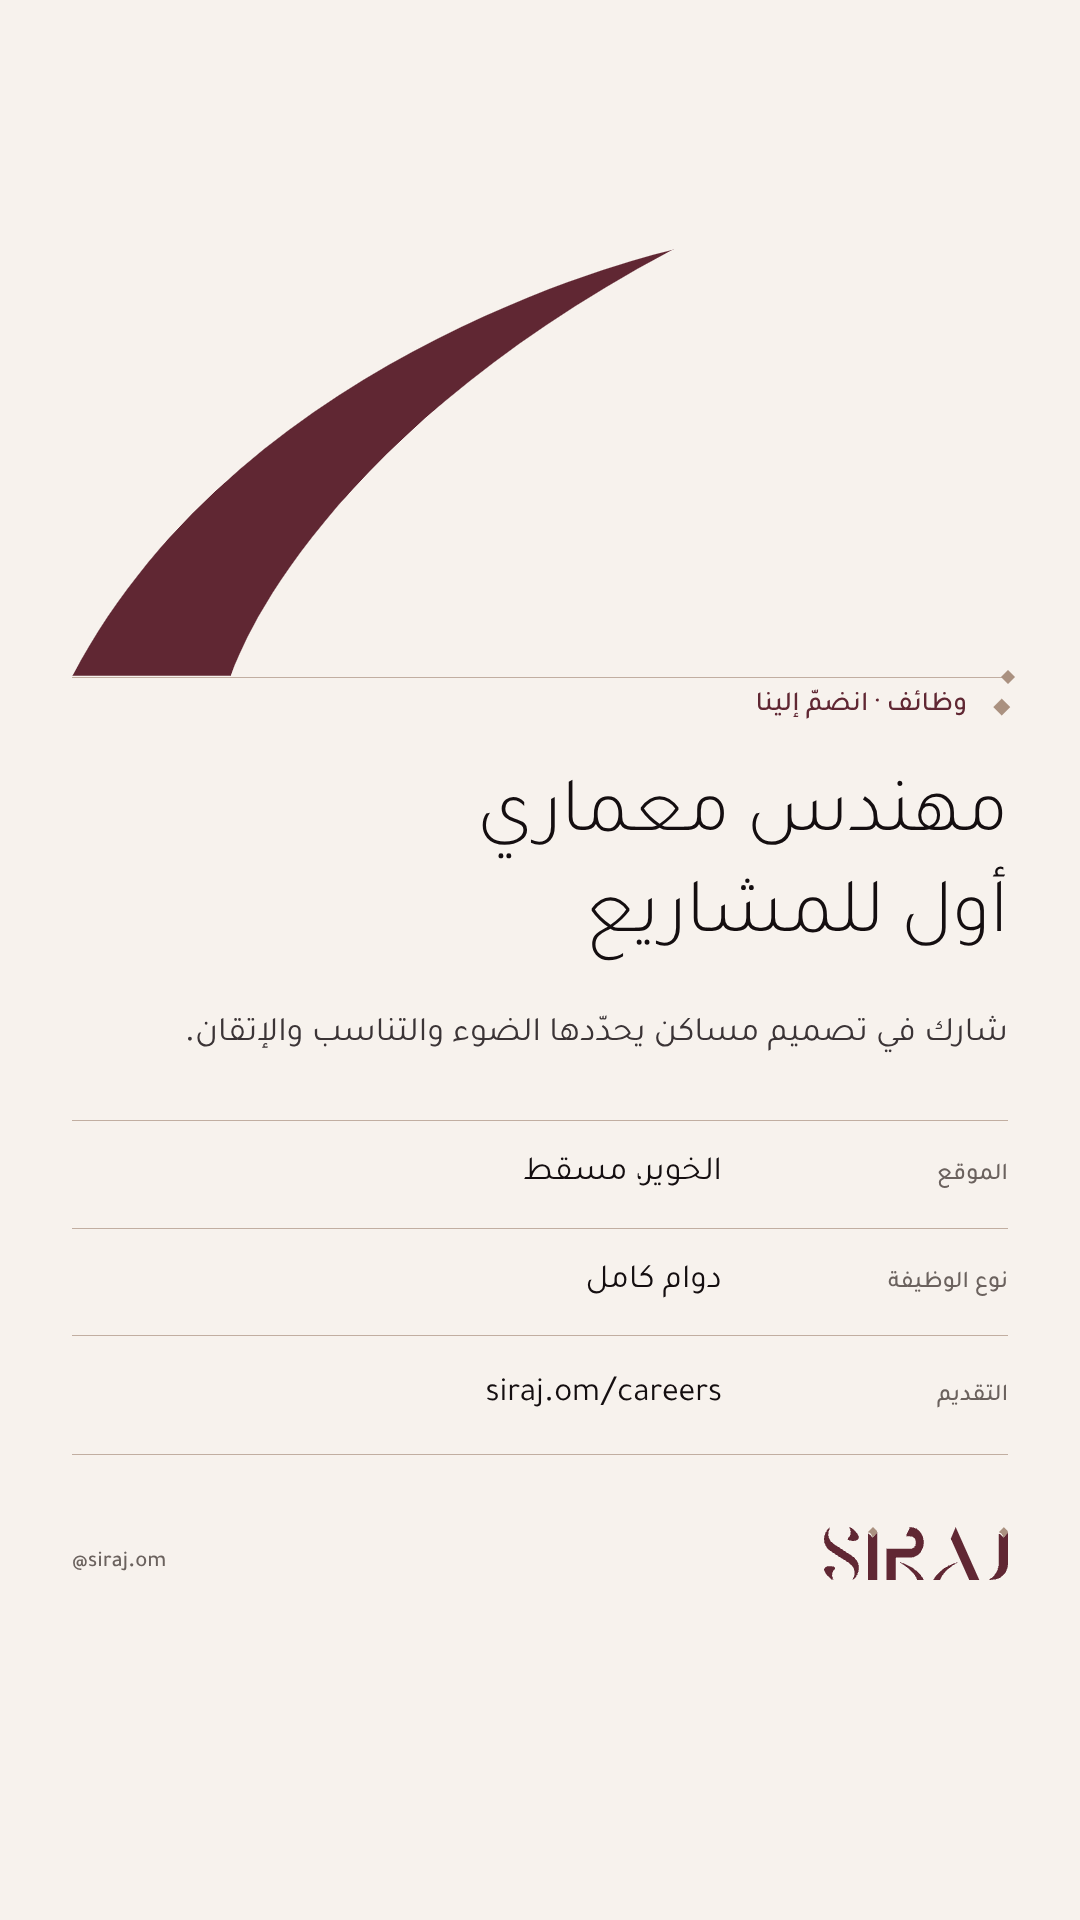
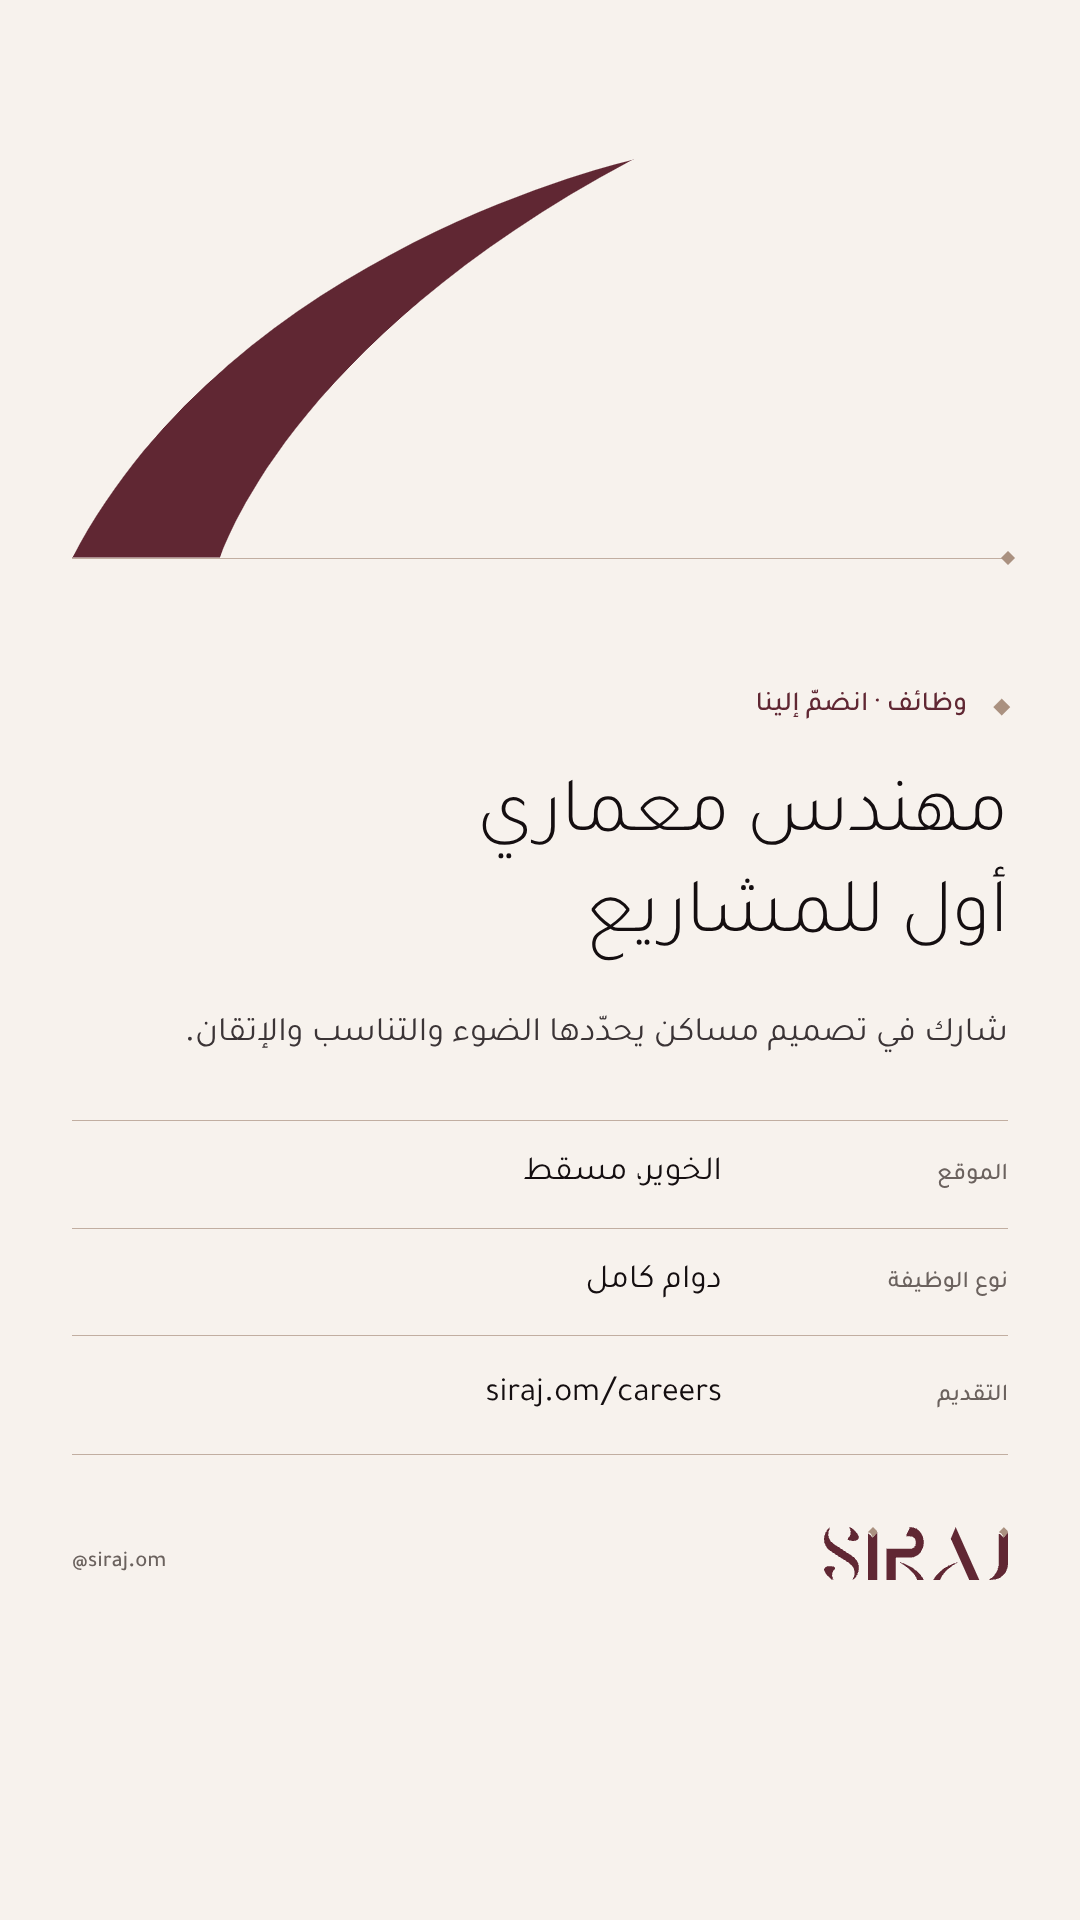
Social media system: 13 templates, 84+ EN/AR exports, carousel, highlights, profile, README
Claude-Session: https://claude.ai/code/session_01H6SQzozLwMcKuwEvLnjbpP

Changed region(s): [[0.0611, 0.0938, 0.6111, 0.375], [0.55, 0.0625, 0.5806, 0.0938]]

diff --git a/11-Social/Templates/Hiring.html b/11-Social/Templates/Hiring.html
@@ -29,15 +29,15 @@
     {
       "type": "blade",
       "color": "var(--maroon)",
-      "style": "left:452px;top:96px;width:556px"
+      "style": "left:488px;top:72px;width:520px"
     },
     {
       "type": "rule",
-      "style": "left:72px;right:72px;top:491px"
+      "style": "left:72px;right:72px;top:442px"
     },
     {
       "type": "lumen",
-      "style": "left:67px;top:486px;width:10px;height:10px"
+      "style": "left:67px;top:437px;width:10px;height:10px"
     }
   ],
   "en": {
@@ -98,15 +98,15 @@
         {
           "type": "blade",
           "color": "var(--maroon)",
-          "style": "left:408px;top:250px;width:600px"
+          "style": "left:448px;top:160px;width:560px"
         },
         {
           "type": "rule",
-          "style": "left:72px;right:72px;top:677px"
+          "style": "left:72px;right:72px;top:558px"
         },
         {
           "type": "lumen",
-          "style": "left:67px;top:672px;width:10px;height:10px"
+          "style": "left:67px;top:553px;width:10px;height:10px"
         }
       ]
     },
